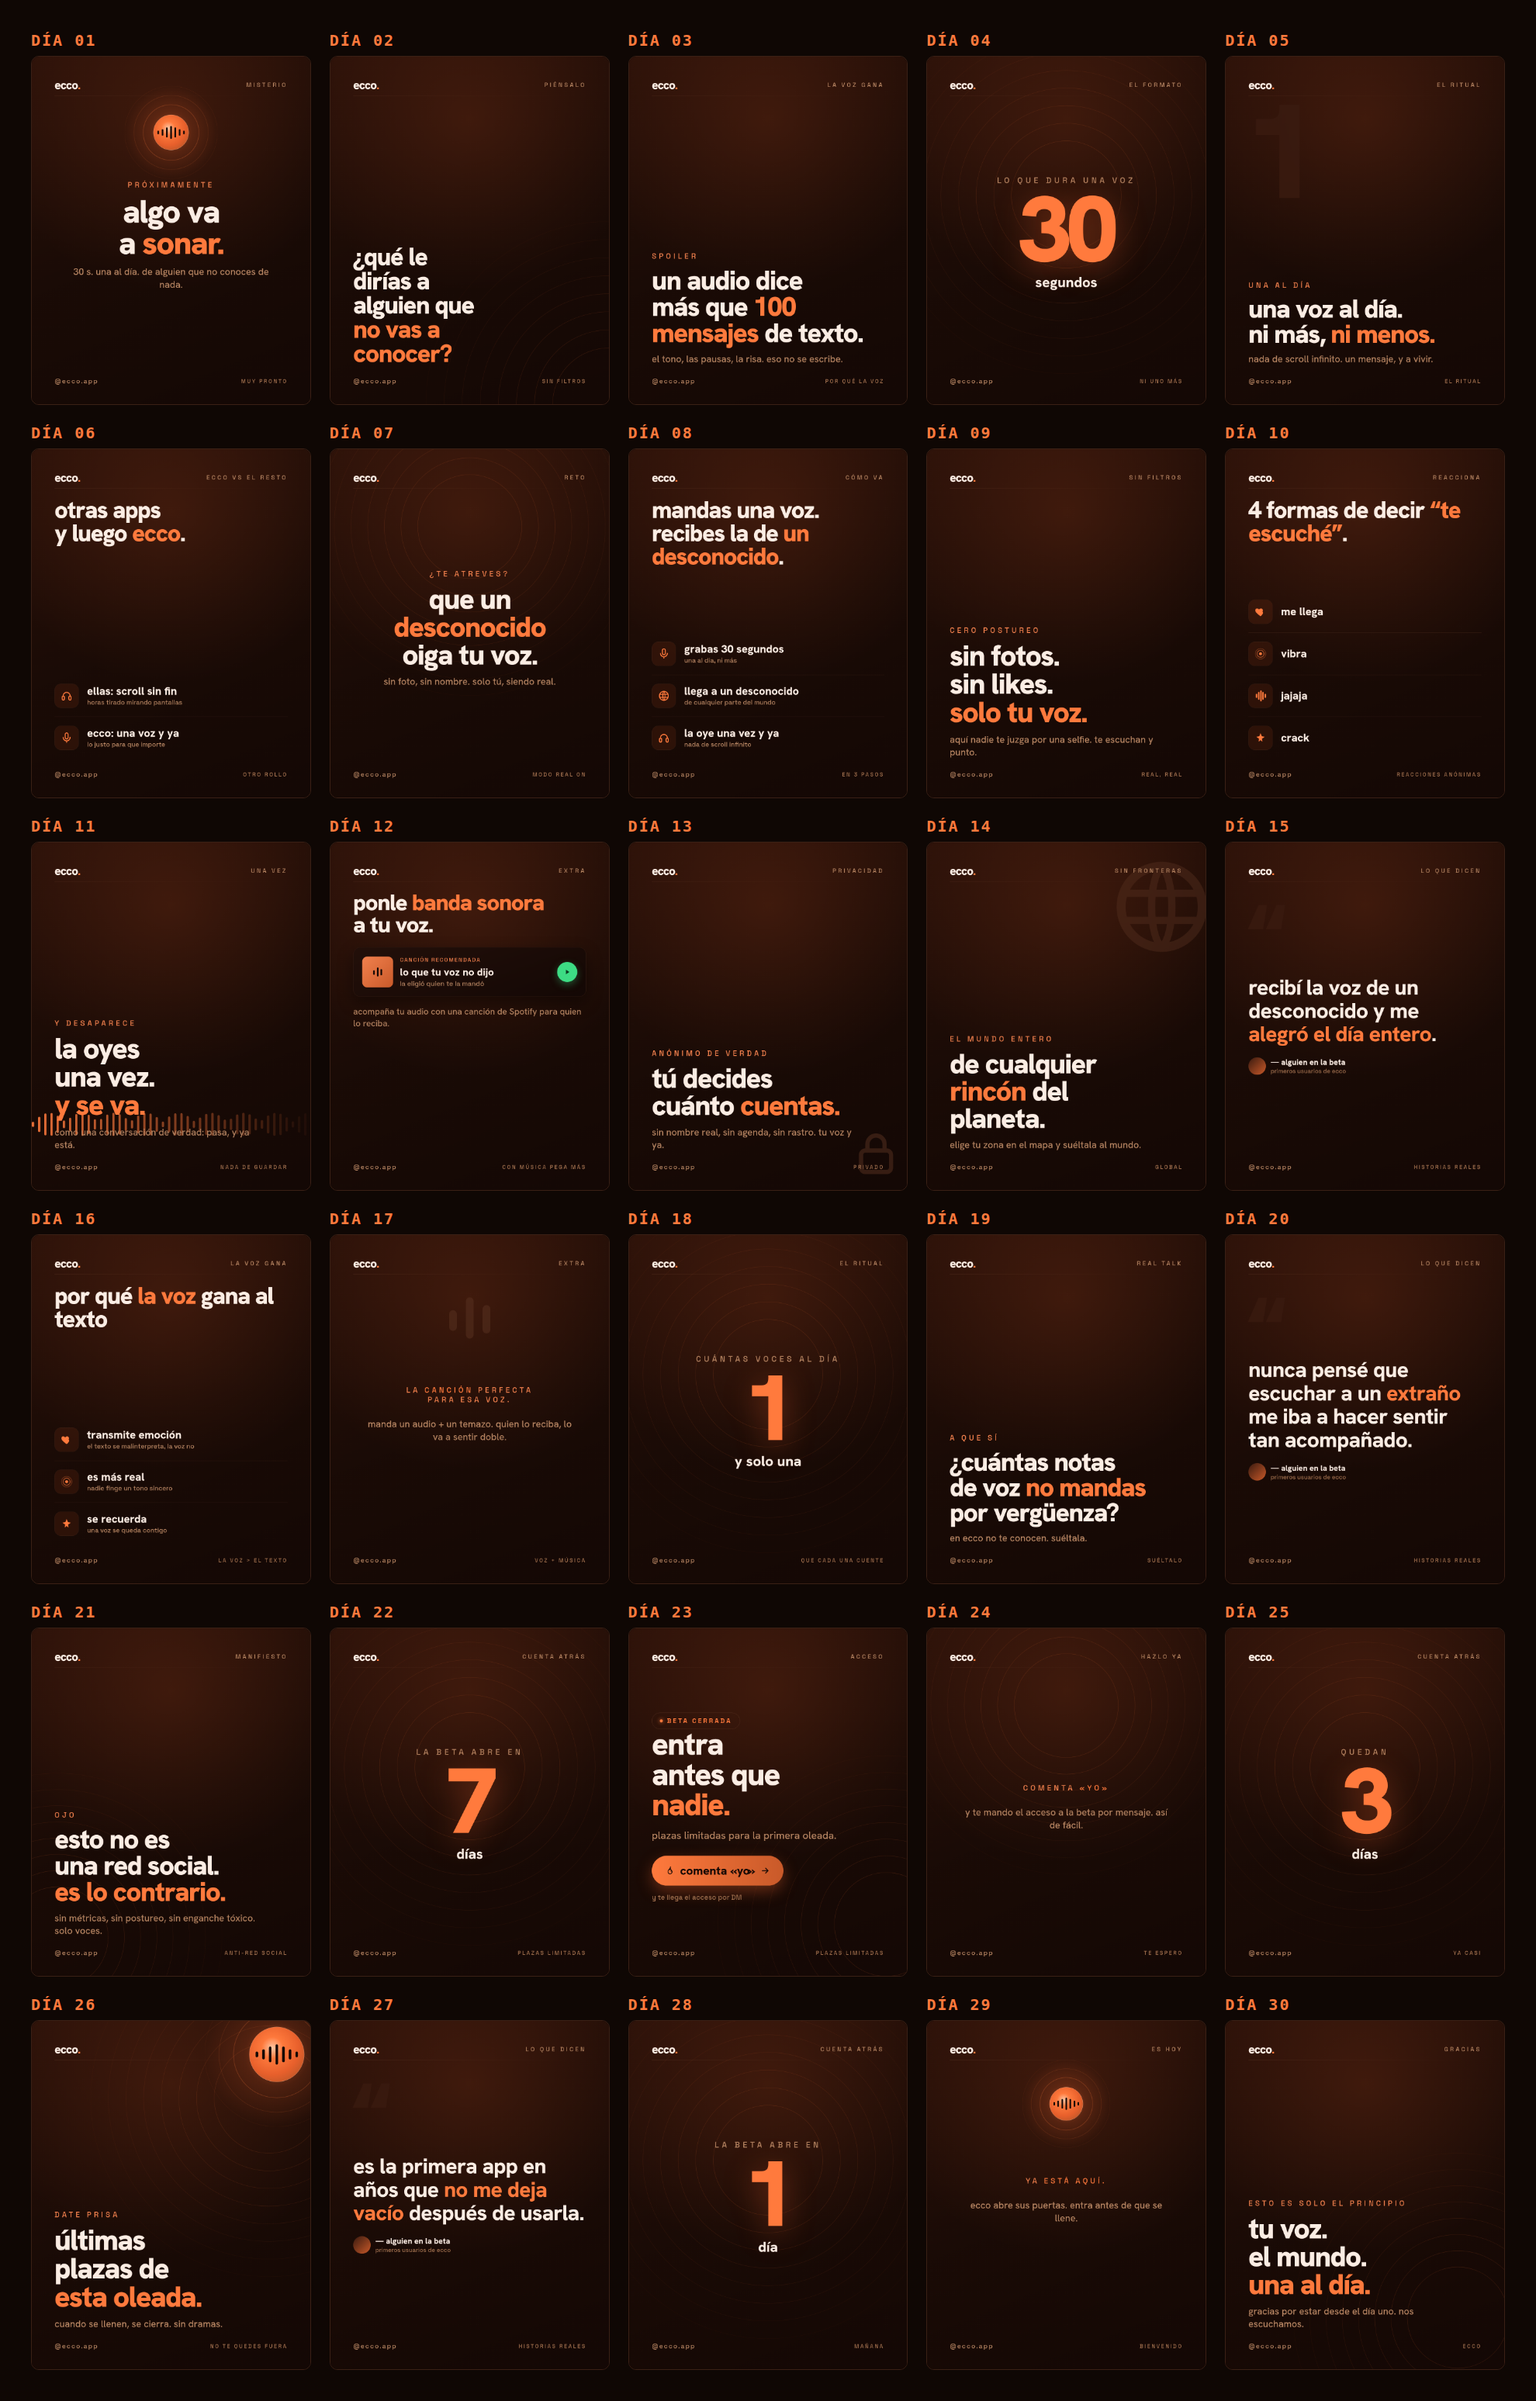
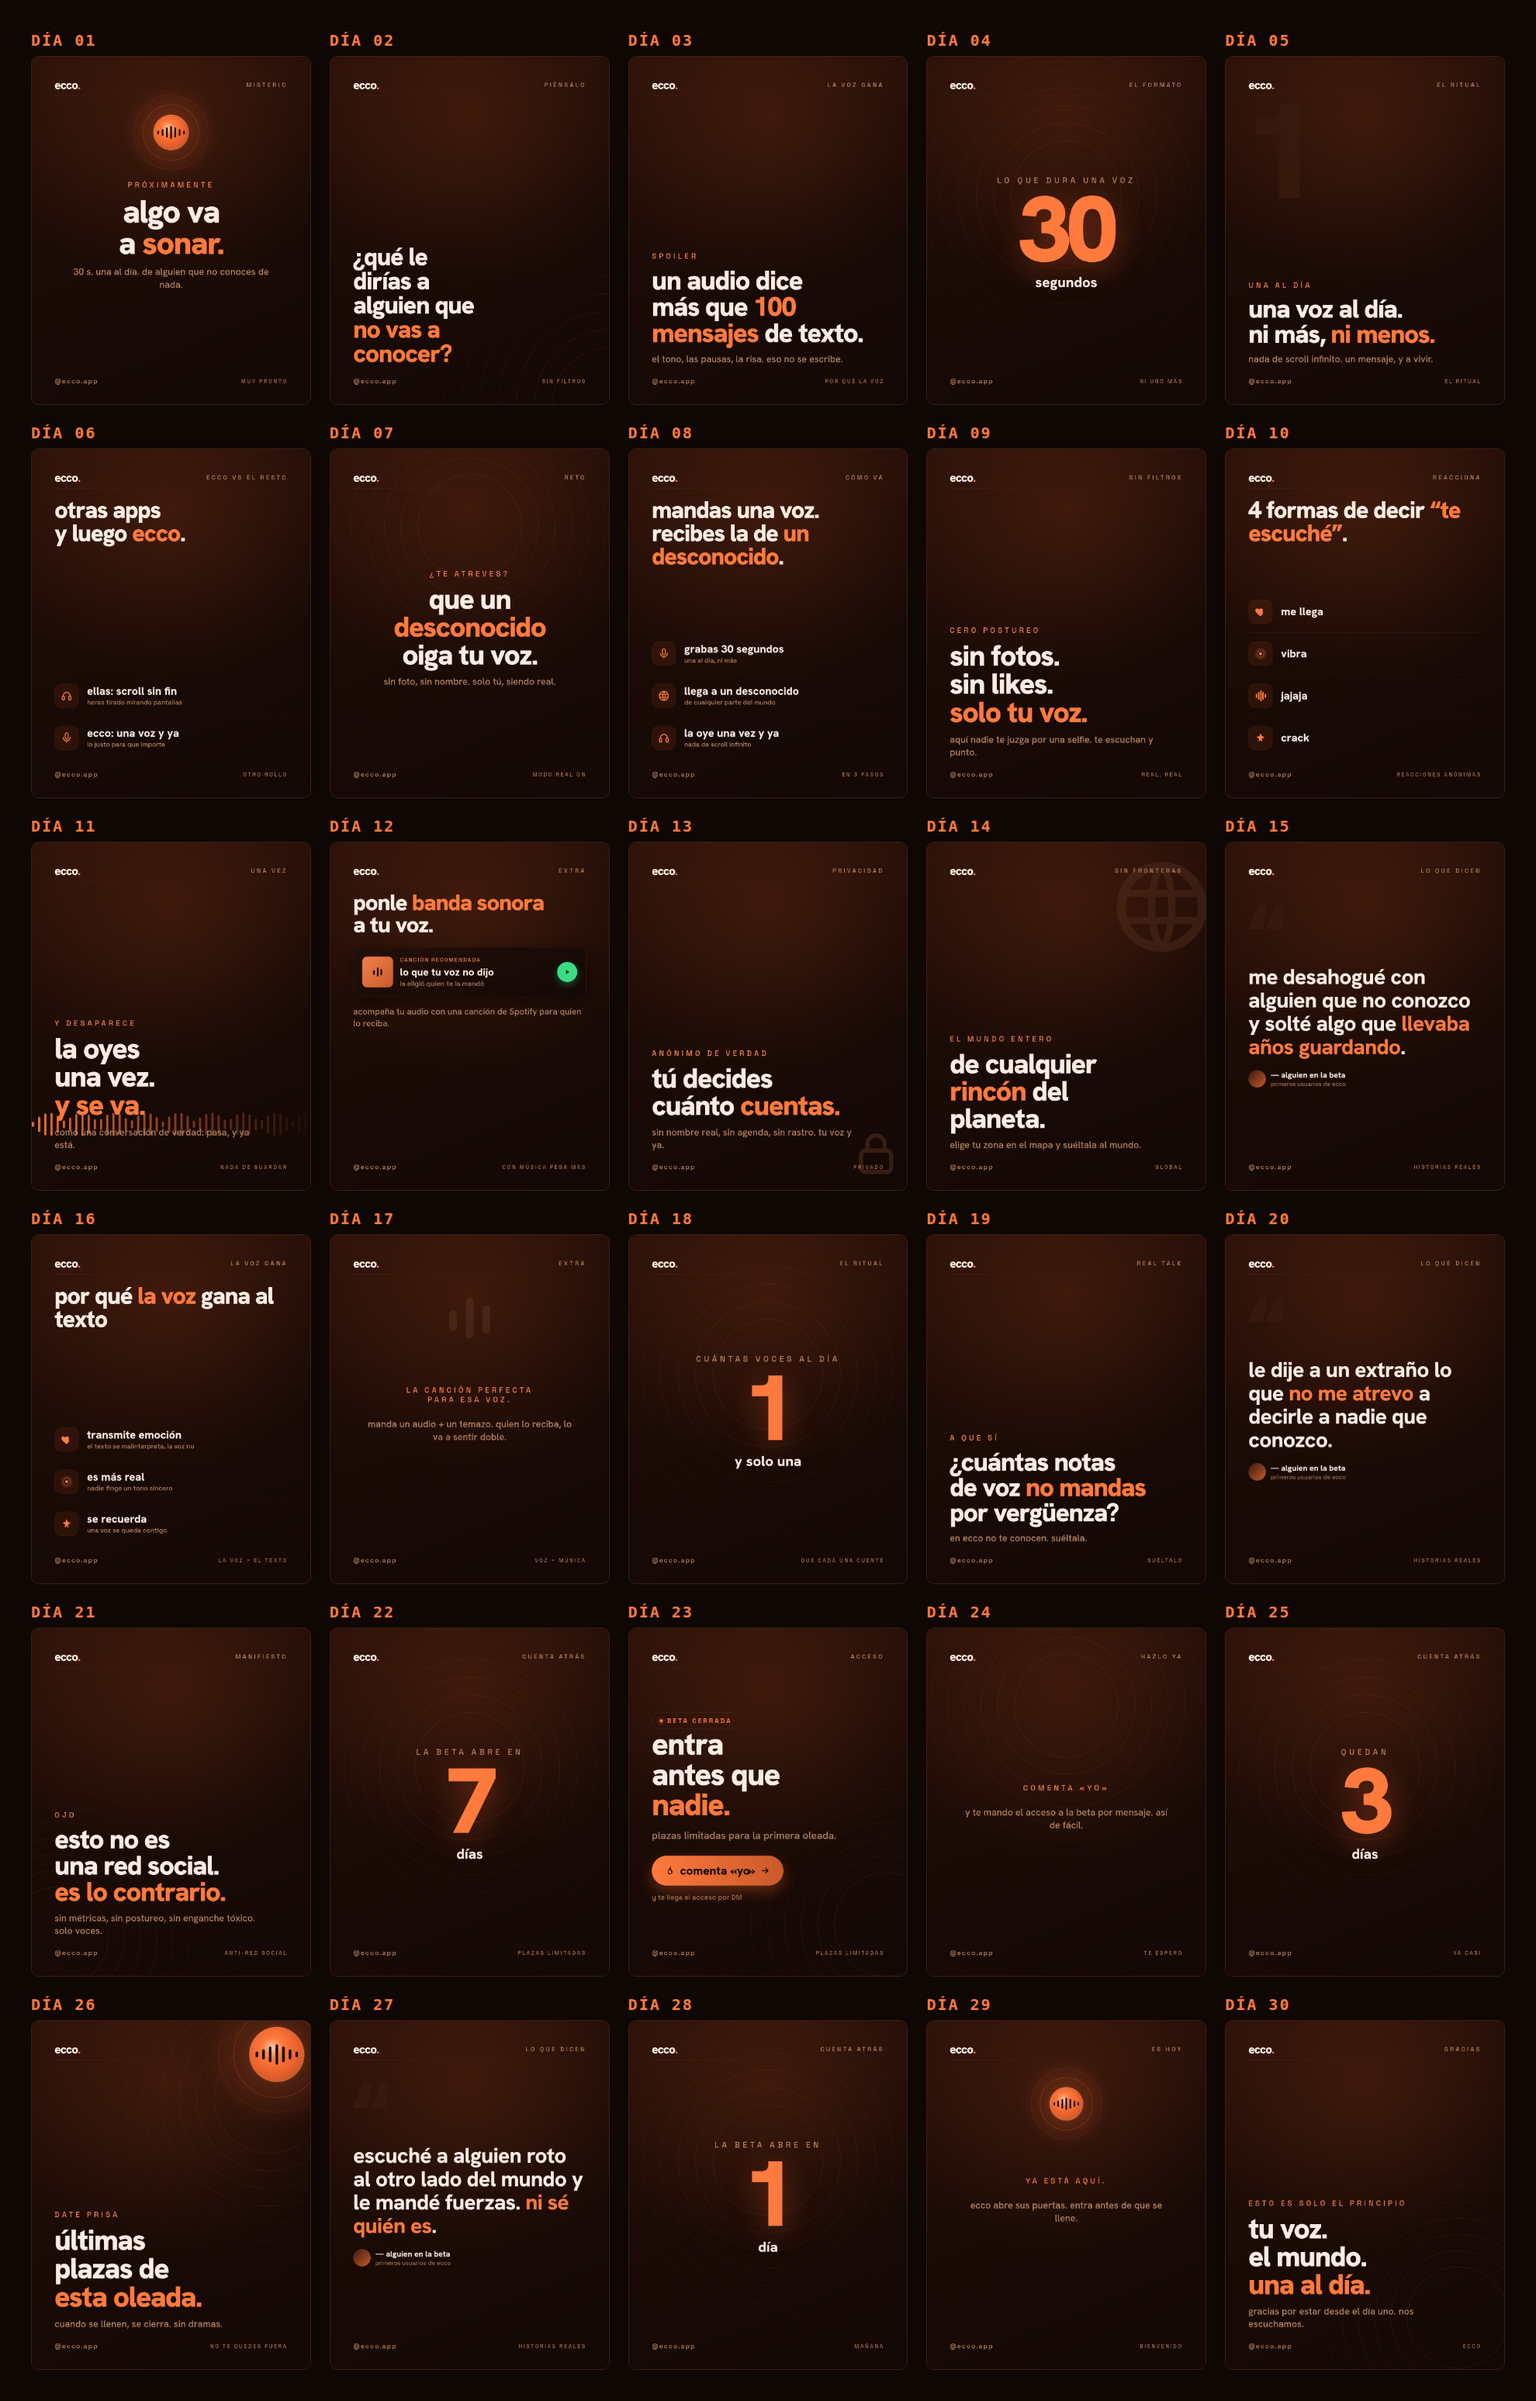
Testimonios mas impactantes: gritar felicidad a un desconocido, desahogarse de lo guardado

Changed region(s): [[0.801, 0.5583, 0.9551, 0.6204], [0.801, 0.4032, 0.9551, 0.4653], [0.2157, 0.8995, 0.3697, 0.9616]]

diff --git a/docs/calendario-30-dias.md b/docs/calendario-30-dias.md
@@ -63,7 +63,7 @@ Estructura del mes:
 ## SEMANA 3 — prueba social + valor + manifiesto
 
 **Día 15 · `dia-15-testi-1`**
-> "recibí la voz de un desconocido y me alegró el día entero" — esto lo dijo alguien de la beta. y no es el único.
+> "me desahogué con alguien que no conozco y solté algo que llevaba años guardando". esto pasa en ecco. cada día.
 
 **Día 16 · `dia-16-valor-2`**
 > por qué la voz gana al texto: transmite emoción, es más real y se te queda. el texto se malinterpreta, la voz no.
@@ -78,7 +78,7 @@ Estructura del mes:
 > real talk: ¿cuántas notas de voz NO mandas por vergüenza? en ecco no te conocen. suéltala.
 
 **Día 20 · `dia-20-testi-2`**
-> "nunca pensé que escuchar a un extraño me iba a hacer sentir tan acompañado". gracias por esto 🥹
+> "le dije a un extraño lo que no me atrevo a decirle a nadie que conozco". a veces un desconocido es justo lo que necesitas.
 
 **Día 21 · `dia-21-no-red`**
 > esto no es una red social. es lo contrario. sin métricas, sin postureo, sin enganche tóxico. solo voces.
@@ -101,7 +101,7 @@ Estructura del mes:
 > últimas plazas de esta oleada. cuando se llenen, se cierra. sin dramas. no te quedes fuera.
 
 **Día 27 · `dia-27-testi-3`**
-> "es la primera app en años que no me deja vacío después de usarla". esto es justo lo que queríamos 🔥
+> "escuché a alguien roto al otro lado del mundo y le mandé fuerzas. ni sé quién es". esto es ecco 🔥
 
 **Día 28 · `dia-28-atras-1`**
 > la beta abre en 1 día. mañana. último aviso para reservar plaza: comenta «YO».
